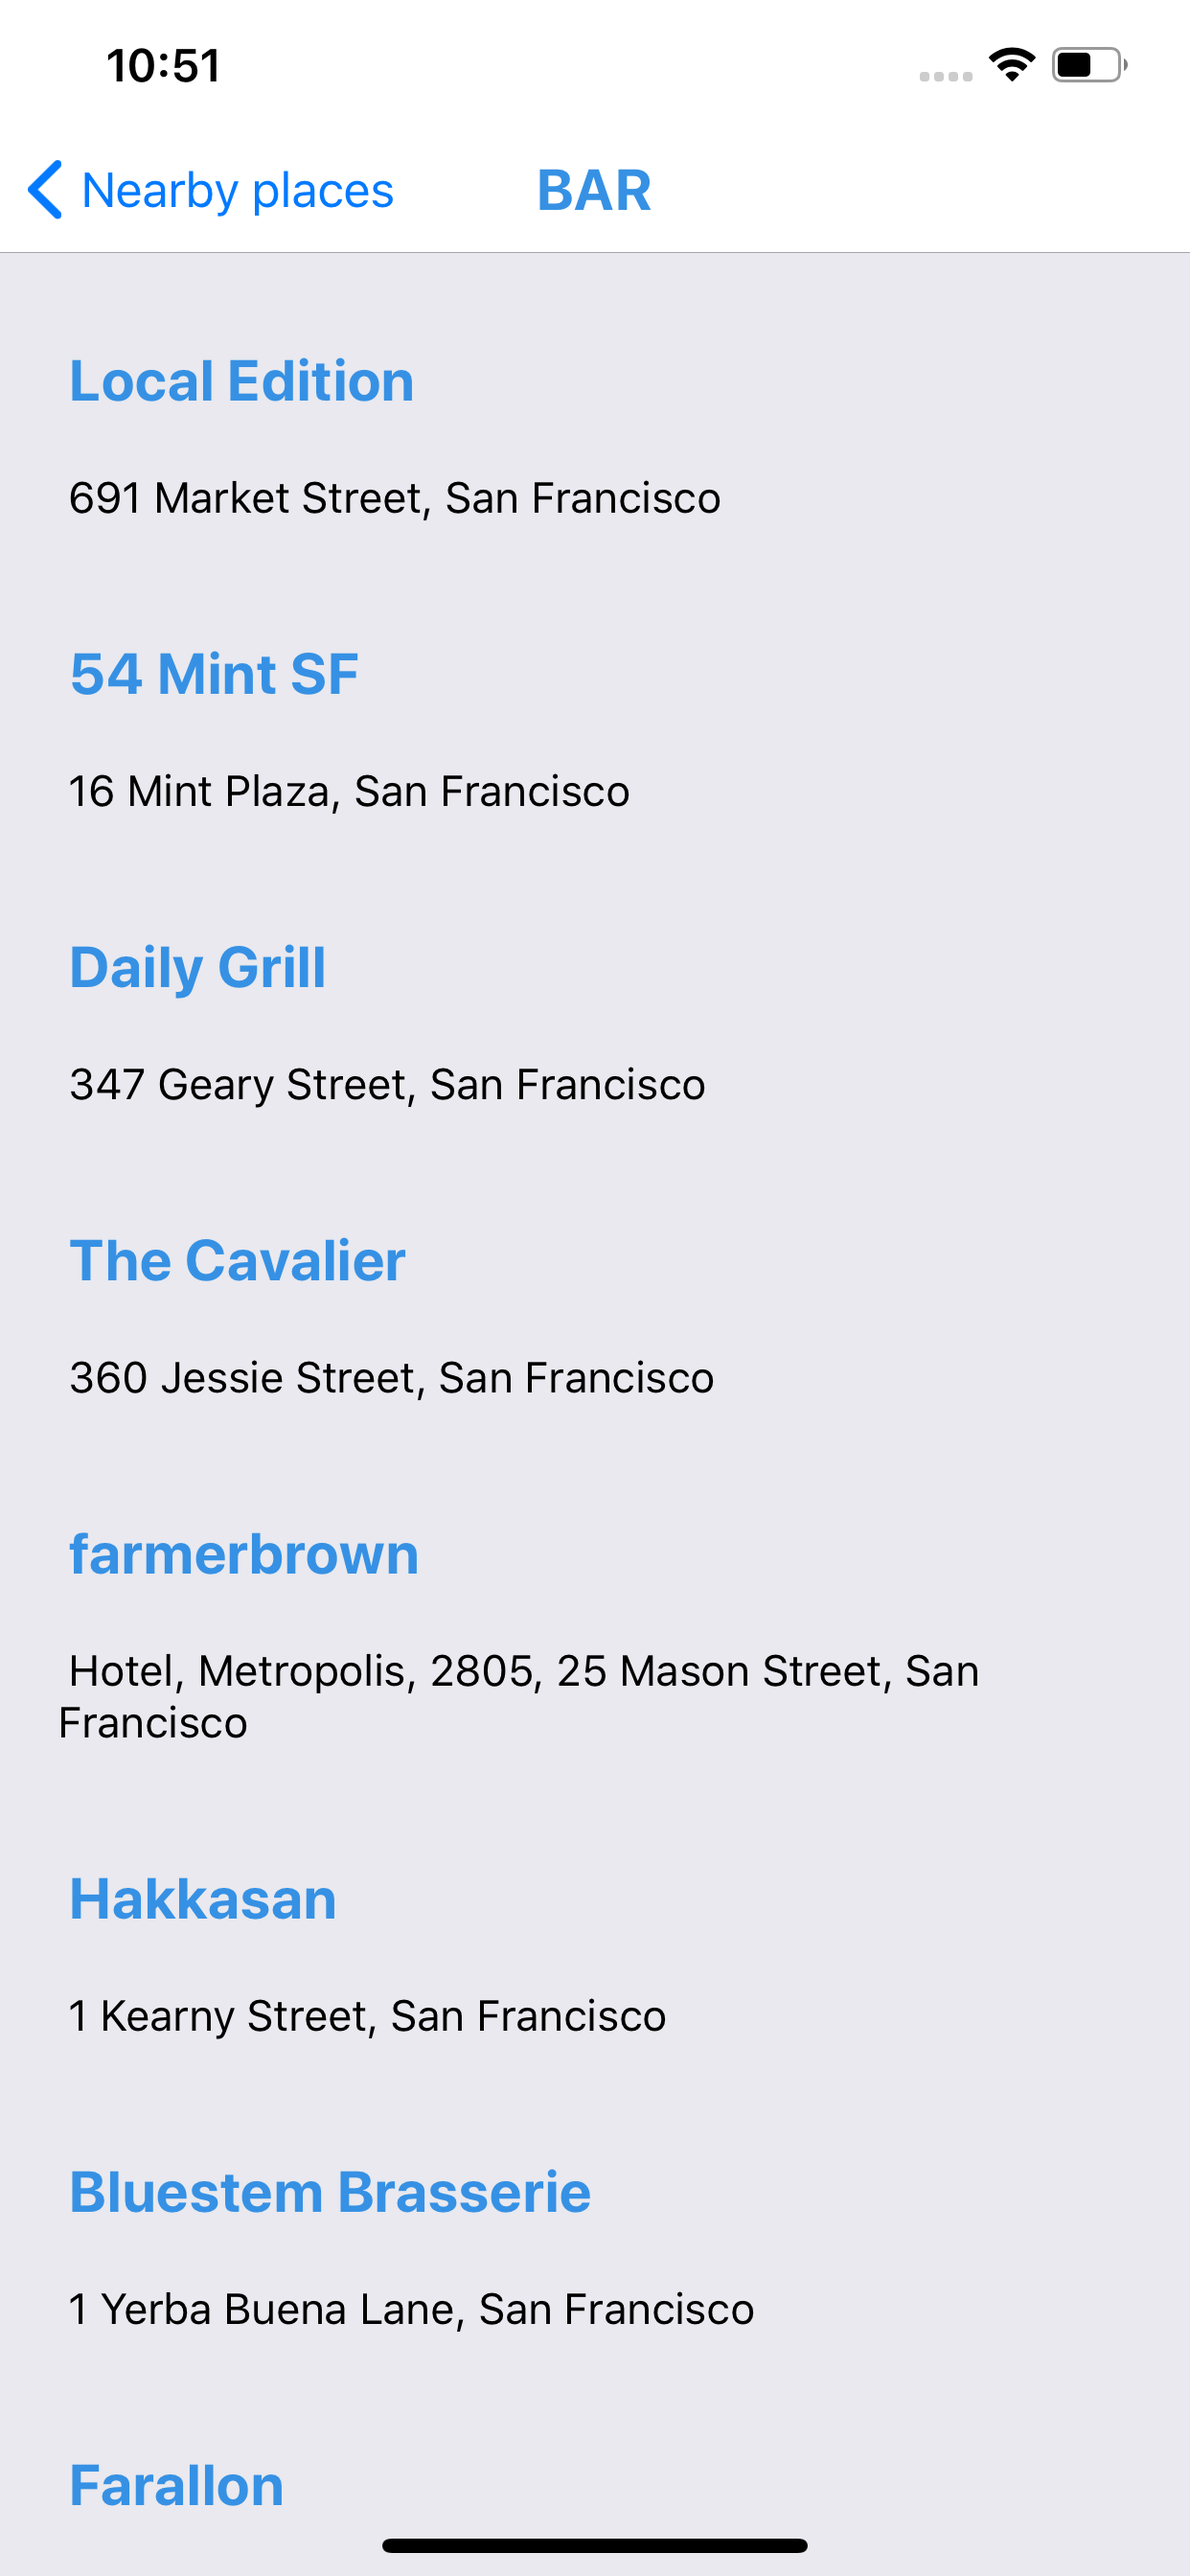
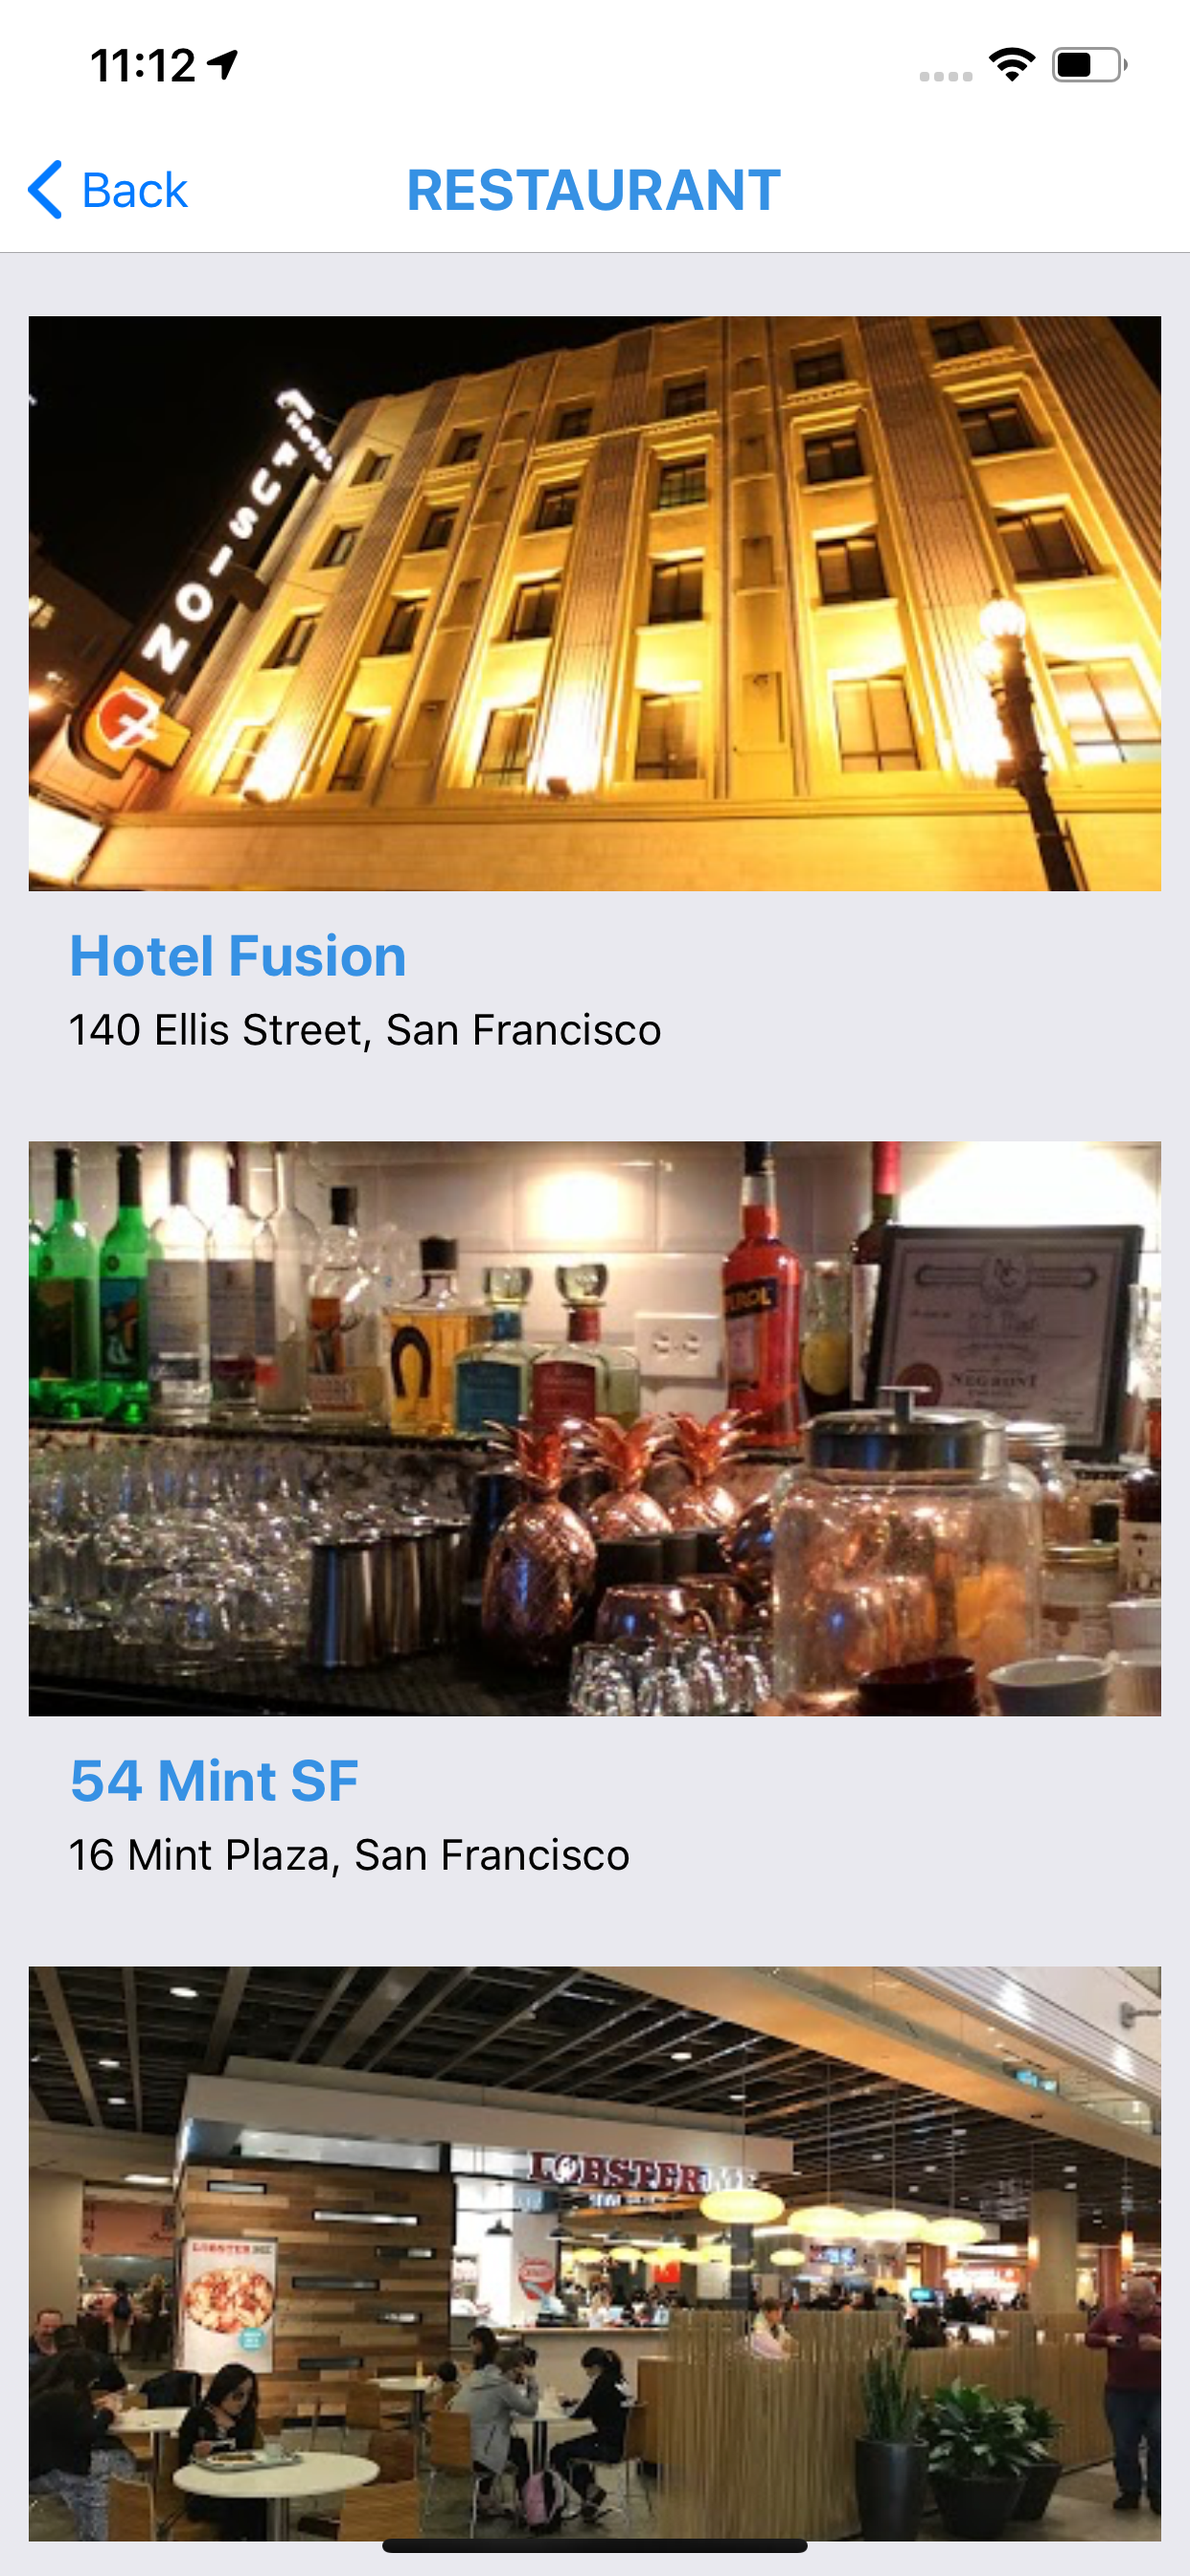
Update Nearby places screen and service GetNearbyPlaces, now shows the place photo y available

diff --git a/src/services/GetNearbyPlaces.js b/src/services/GetNearbyPlaces.js
@@ -2,6 +2,7 @@ import { GOOGLE_PLACES_API_KEY } from "../constants/api";
 import axios from 'axios';
 
 const GOOGLE_PLACES_URL  = (category, latitude, longitude) => `https://maps.googleapis.com/maps/api/place/nearbysearch/json?location=${latitude},${longitude}&radius=500&type=${category}&key=${GOOGLE_PLACES_API_KEY}`;
+const GOOGLE_PLACES_PHOTO_URL = photoReference => `https://maps.googleapis.com/maps/api/place/photo?maxwidth=400&photoreference=${photoReference}&key=${GOOGLE_PLACES_API_KEY}`;
 
 export default class GetNearbyPlaces {
 
@@ -10,14 +11,29 @@ export default class GetNearbyPlaces {
         return new Promise(function (resolve, reject) {
             axios.get(GOOGLE_PLACES_URL(category, latitude, longitude))
                 .then(function (response) {
-                    console.log(response.data.results);
-                    resolve(response.data.results)
+                    resolve(response.data.results.map(GetNearbyPlaces.mapResult))
                 })
                 .catch(function (error) {
                     console.log(error);
                     reject(error);
                 });
         })
-    }
+    };
 
+    static mapResult (item) {
+        let place = {
+            reference: item.reference,
+            name: item.name,
+            address: item.vicinity,
+            picture: GetNearbyPlaces.photoURIForReference(item.photos && item.photos.length > 0 ? item.photos[0].photo_reference : "")
+        }
+        return place
+    };
+
+    static photoURIForReference (photoReference) {
+        if (photoReference.length > 0)
+            return GOOGLE_PLACES_PHOTO_URL(photoReference)
+        else return 'https://dummyimage.com/600x400/000/fcfcfc.png&text=No+image';
+    }
 }
+

diff --git a/src/features/nearby_places/components/NearbyPlaceItem.js b/src/features/nearby_places/components/NearbyPlaceItem.js
@@ -9,8 +9,11 @@ class NearbyPlaceItem extends Component {
     render () {
         return (
             <View style={ this.props.style.container }>
-                <Text style={ this.props.style.title }> {this.props.item.name} </Text>
-                <Text style={ this.props.style.info }> {this.props.item.vicinity} </Text>
+                <Image style={ this.props.style.picture } source={ {uri:  this.props.item.picture } } />
+                <View>
+                    <Text style={ this.props.style.title }> {this.props.item.name} </Text>
+                    <Text style={ this.props.style.info }> {this.props.item.address} </Text>
+                </View>
             </View>
         );
     }

diff --git a/src/styles/nearbyPlace.style.js b/src/styles/nearbyPlace.style.js
@@ -37,17 +37,26 @@ const styles = StyleSheet.create({
     },
     title: {
         color: colors.primary,
-        flex: 10,
-        margin: 10,
+        flex: 1,
+        paddingTop: 10,
+        paddingBottom: 5,
+        paddingLeft: 10,
         fontSize: values.font_title_size,
         fontWeight: values.font_title_weight
     },
     info: {
         color: colors.info,
         flex: 1,
-        margin: 10,
+        paddingBottom: 10,
+        paddingLeft: 10,
         fontSize: values.font_info_size,
         fontWeight: values.font_info_weight
+    },
+    picture: {
+        flex: 1,
+        height: 200,
+        width: '100%',
+        resizeMode: 'cover',
     }
 });
 
